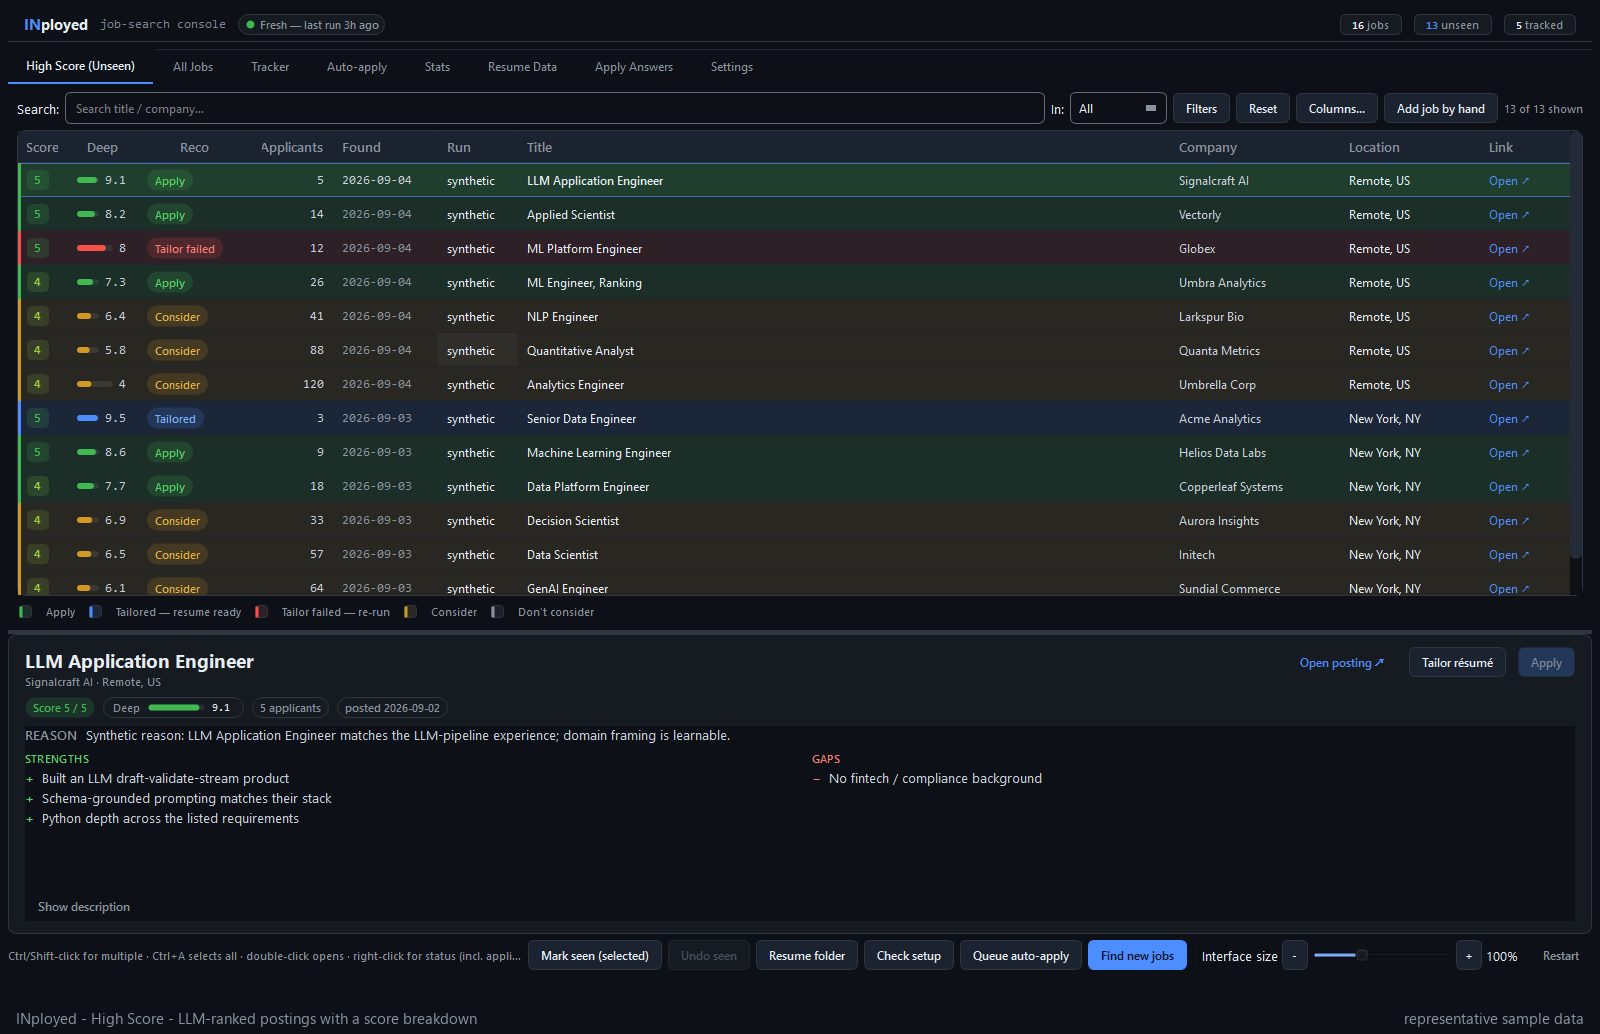
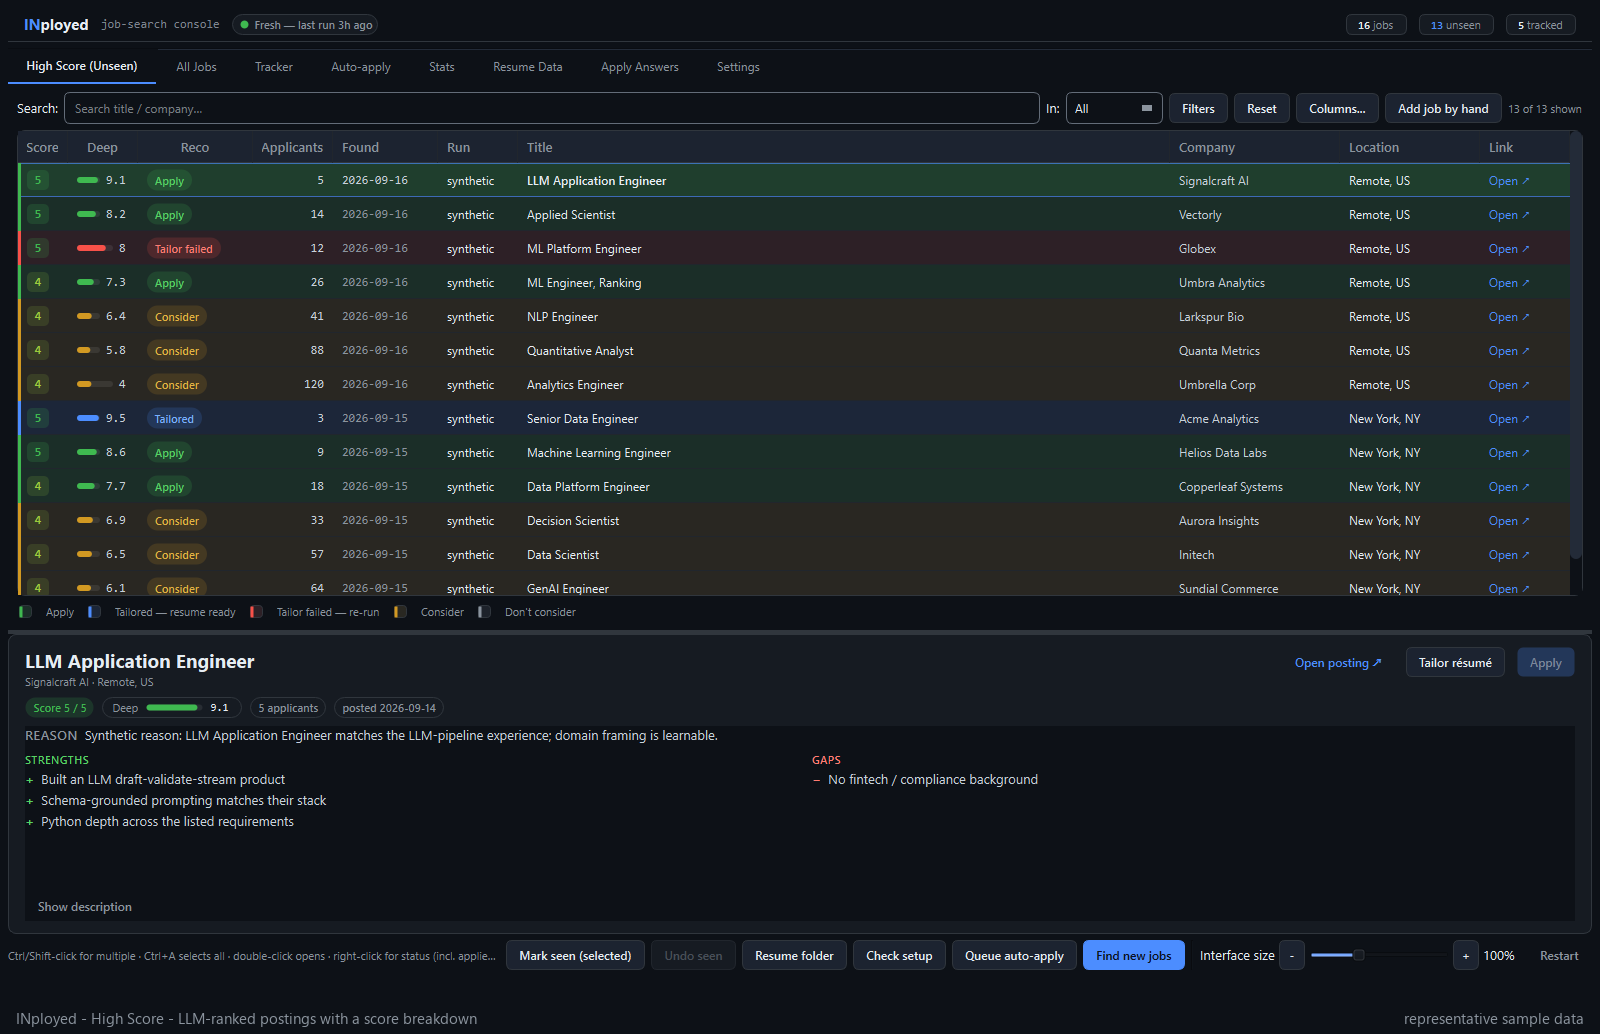
docs(media): re-shoot the four stills and re-cut the demo GIF on the current Settings tab
docs/settings.png and the last four scenes of docs/demo.gif showed the Settings tab
before this release's label changes: the em-dash "Tailor models" label, the old
Engine description that named two billing lanes, and a "(10 hidden)" advanced
count. Both are re-shot through scripts/ui_screenshots.py and
scripts/build_demo_media.py on the real windows platform, so they now show the
colon label, the three-lane description that names the pool, the per-tier help
text, and the count the app computes for a fresh install, 16.

docs/dashboard.png, docs/tracker.png and docs/resume-data.png change only by
the fixtures' relative dates and sub-pixel glyph placement; they were rebuilt
with the same run so all four stills come from one frame set.

docs/USER_GUIDE.md said the toggle folds 19 rows; that is the count with VM
features on. A fresh install folds 16, because the VM section's master switch
subtracts its three rows. The sentence now gives both numbers.

GIF re-measured from the written file: 173 frames, 41.6 s, 1600x1044, 7.56 MB.

diff --git a/docs/USER_GUIDE.md b/docs/USER_GUIDE.md
@@ -150,10 +150,11 @@ one group at a time.
   never saved. If a match exists but your configuration makes it inert, a muted line under
   the results says so and names the switch: *"3 more settings apply when Scoring provider
   is 'claude'"*.
-- **Show advanced settings:** off by default, folding 19 power-user rows away (the
-  per-stage model pickers and fallback lists, scorer concurrency and retry caps, VM plumbing). The label counts
-  what it is currently withholding *for your configuration*, so ticking it really does
-  reveal that many rows. Search ignores the fold: an advanced row still turns up in
+- **Show advanced settings:** off by default, folding 16 power-user rows away on a fresh
+  install (the per-stage model pickers and fallback lists, scorer concurrency and retry caps)
+  and 19 once VM features are on, which adds the VM plumbing. The label counts what it is
+  currently withholding *for your configuration*, so ticking it really does reveal that many
+  rows. Search ignores the fold: an advanced row still turns up in
   results, tagged `(advanced)`.
 - **Unsaved-change markers:** an accent dot appears beside every field you have edited, the
   section header picks up "· 2 changed" (visible even when the section is folded, which is
